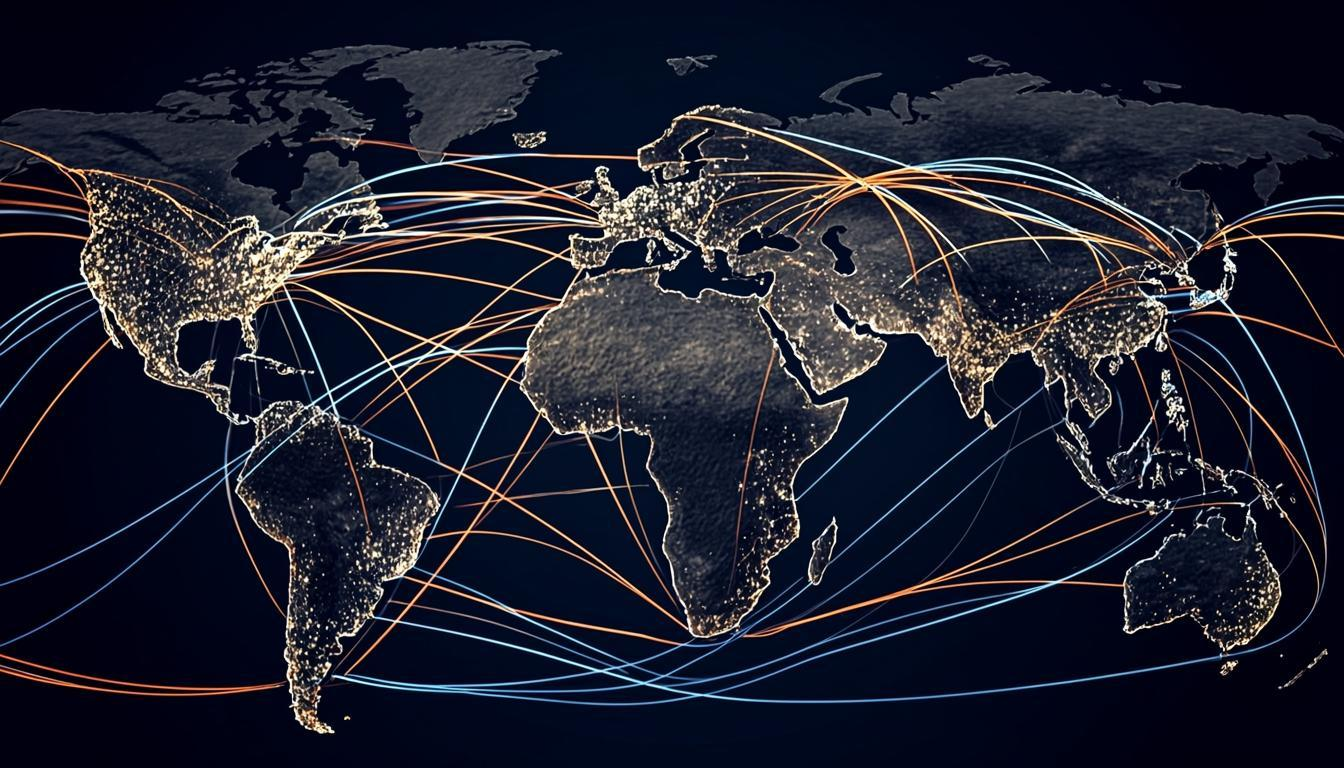
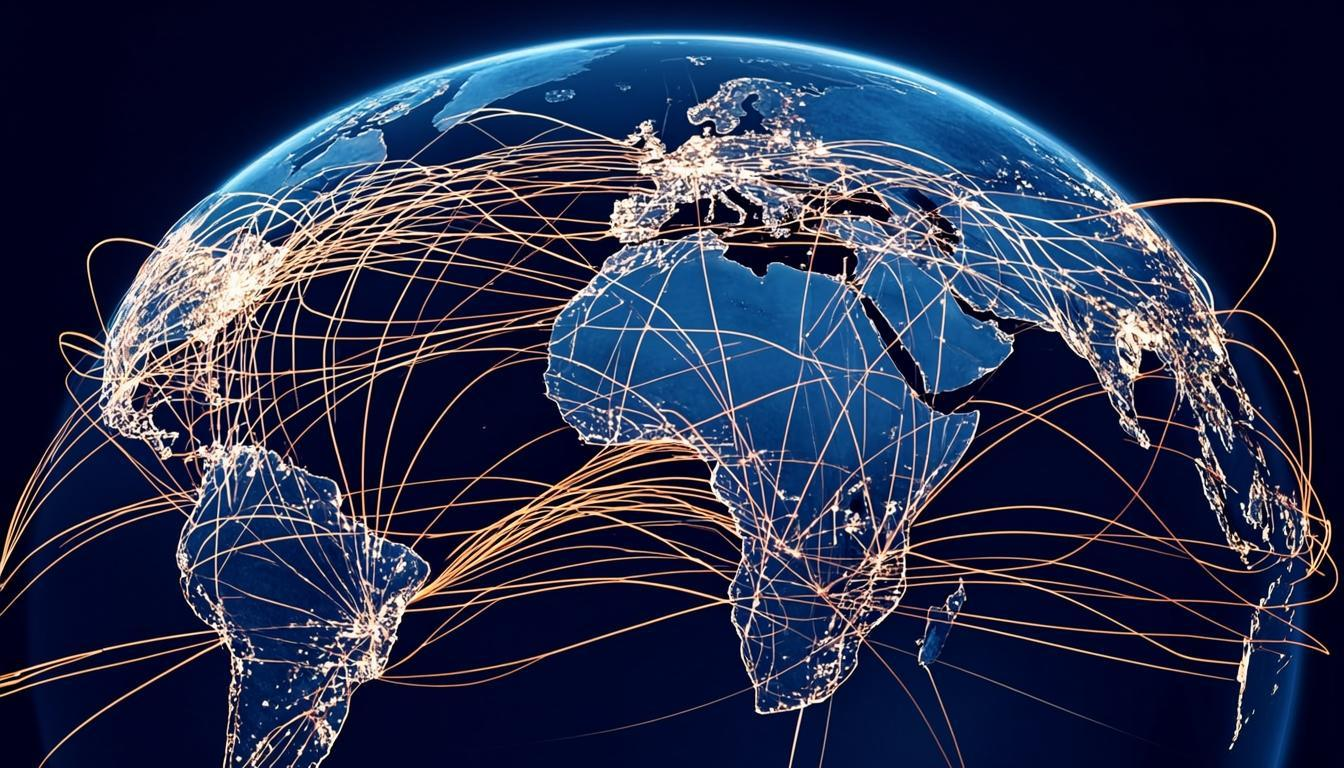
feat: upgrade hero slider with 8 unique high-quality images and new Ken Burns animations
- Replaced all 4 hero slider images with AI-generated professional logistics photography
- Added 4 new hero slides: Road Transport, Rail Freight, Customs & Compliance, Smart Tracking Tech
- Added 4 new Ken Burns zoom animation variants (down, diagonal-tr, diagonal-bl, pulse)
- Regenerated warehouse, cargo-ship, and global-network images for consistency
- All images now 1344x768 high-resolution format

diff --git a/src/app/page.tsx b/src/app/page.tsx
@@ -34,7 +34,7 @@ function useCounter(target: number, duration: number = 2000, start: boolean = fa
   return count;
 }
 
-// Hero Slide Data
+// Hero Slide Data - 8 unique slides for variety
 const heroSlides = [
   {
     image: "/hero-bg.png",
@@ -72,6 +72,42 @@ const heroSlides = [
     primaryCta: { text: "Air Freight", href: "/services/air-freight" },
     secondaryCta: { text: "Get a Quote", href: "/contact", icon: ArrowRight },
   },
+  {
+    image: "/hero-road.png",
+    gradient: "from-[#003D66]/92 via-[#005B96]/82 to-[#003D66]/68",
+    badge: { icon: Truck, text: "Road Transport Network" },
+    title: ["On the Road,", "Ahead of Schedule", "Every Time"],
+    description: "Efficient road freight and last-mile delivery connecting ports, warehouses, and final destinations. GPS-tracked fleet with cross-border expertise and refrigerated transport options.",
+    primaryCta: { text: "Road Solutions", href: "/services/road-transport" },
+    secondaryCta: { text: "Track Shipment", href: "/tracking", icon: Navigation },
+  },
+  {
+    image: "/hero-rail.png",
+    gradient: "from-[#003D66]/90 via-[#005B96]/85 to-[#003D66]/72",
+    badge: { icon: Container, text: "Rail & Intermodal Freight" },
+    title: ["Across Continents,", "Seamless Connections", "By Rail"],
+    description: "Cost-effective rail freight linking major trade corridors. Intermodal solutions that combine rail, road, and sea for optimal transit times and competitive pricing across landmasses.",
+    primaryCta: { text: "Intermodal Solutions", href: "/services" },
+    secondaryCta: { text: "Get a Quote", href: "/contact", icon: ArrowRight },
+  },
+  {
+    image: "/hero-customs.png",
+    gradient: "from-[#005B96]/88 via-[#0078C8]/82 to-[#003D66]/75",
+    badge: { icon: Shield, text: "Customs & Compliance" },
+    title: ["Clear Borders,", "Clear Customs", "Clear Ahead"],
+    description: "Expert customs brokerage and trade compliance services. We handle documentation, tariffs, and regulatory requirements so your cargo moves through borders without delays.",
+    primaryCta: { text: "Customs Solutions", href: "/services" },
+    secondaryCta: { text: "Get a Quote", href: "/contact", icon: ArrowRight },
+  },
+  {
+    image: "/hero-tech.png",
+    gradient: "from-[#003D66]/93 via-[#005B96]/80 to-[#003D66]/62",
+    badge: { icon: Globe, text: "Smart Tracking Technology" },
+    title: ["Real-Time Visibility,", "Real-Time Control", "Real Results"],
+    description: "Proprietary tracking technology gives you end-to-end visibility across your entire supply chain. Monitor shipments, predict ETAs, and optimize routes from a single intelligent dashboard.",
+    primaryCta: { text: "Track Now", href: "/tracking" },
+    secondaryCta: { text: "Explore Tech", href: "/services", icon: ArrowRight },
+  },
 ];
 
 // =================== HERO SECTION ===================
@@ -80,6 +116,10 @@ const heroZoomClasses = [
   "hero-slide-img-right",
   "hero-slide-img-up",
   "hero-slide-img-left",
+  "hero-slide-img-down",
+  "hero-slide-img-diagonal-tr",
+  "hero-slide-img-diagonal-bl",
+  "hero-slide-img-pulse",
 ];
 
 function HeroSection() {

diff --git a/src/app/globals.css b/src/app/globals.css
@@ -121,6 +121,31 @@
   100% { transform: scale(1.15) translateX(2%); }
 }
 
+/* Hero Ken Burns zoom - pan down */
+@keyframes hero-zoom-down {
+  0% { transform: scale(1) translateY(0); }
+  100% { transform: scale(1.12) translateY(2%); }
+}
+
+/* Hero Ken Burns zoom - diagonal top-right */
+@keyframes hero-zoom-diagonal-tr {
+  0% { transform: scale(1) translate(0, 0); }
+  100% { transform: scale(1.14) translate(-2%, -1.5%); }
+}
+
+/* Hero Ken Burns zoom - diagonal bottom-left */
+@keyframes hero-zoom-diagonal-bl {
+  0% { transform: scale(1) translate(0, 0); }
+  100% { transform: scale(1.13) translate(1.5%, 2%); }
+}
+
+/* Hero Ken Burns zoom - slow center pulse */
+@keyframes hero-zoom-pulse {
+  0% { transform: scale(1); }
+  50% { transform: scale(1.08); }
+  100% { transform: scale(1.14); }
+}
+
 /* Floating animation */
 @keyframes float {
   0%, 100% { transform: translateY(0px); }
@@ -302,6 +327,22 @@
 
 .hero-slide-img-left {
   animation: hero-zoom-left 6s ease-out forwards;
+}
+
+.hero-slide-img-down {
+  animation: hero-zoom-down 6s ease-out forwards;
+}
+
+.hero-slide-img-diagonal-tr {
+  animation: hero-zoom-diagonal-tr 6s ease-out forwards;
+}
+
+.hero-slide-img-diagonal-bl {
+  animation: hero-zoom-diagonal-bl 6s ease-out forwards;
+}
+
+.hero-slide-img-pulse {
+  animation: hero-zoom-pulse 6s ease-out forwards;
 }
 
 /* Hero crossfade slide styles */
@@ -556,5 +597,17 @@ html {
   }
   .hero-slide-img-left {
     animation: hero-zoom-left 8s ease-out forwards;
+  }
+  .hero-slide-img-down {
+    animation: hero-zoom-down 8s ease-out forwards;
+  }
+  .hero-slide-img-diagonal-tr {
+    animation: hero-zoom-diagonal-tr 8s ease-out forwards;
+  }
+  .hero-slide-img-diagonal-bl {
+    animation: hero-zoom-diagonal-bl 8s ease-out forwards;
+  }
+  .hero-slide-img-pulse {
+    animation: hero-zoom-pulse 8s ease-out forwards;
   }
 }
